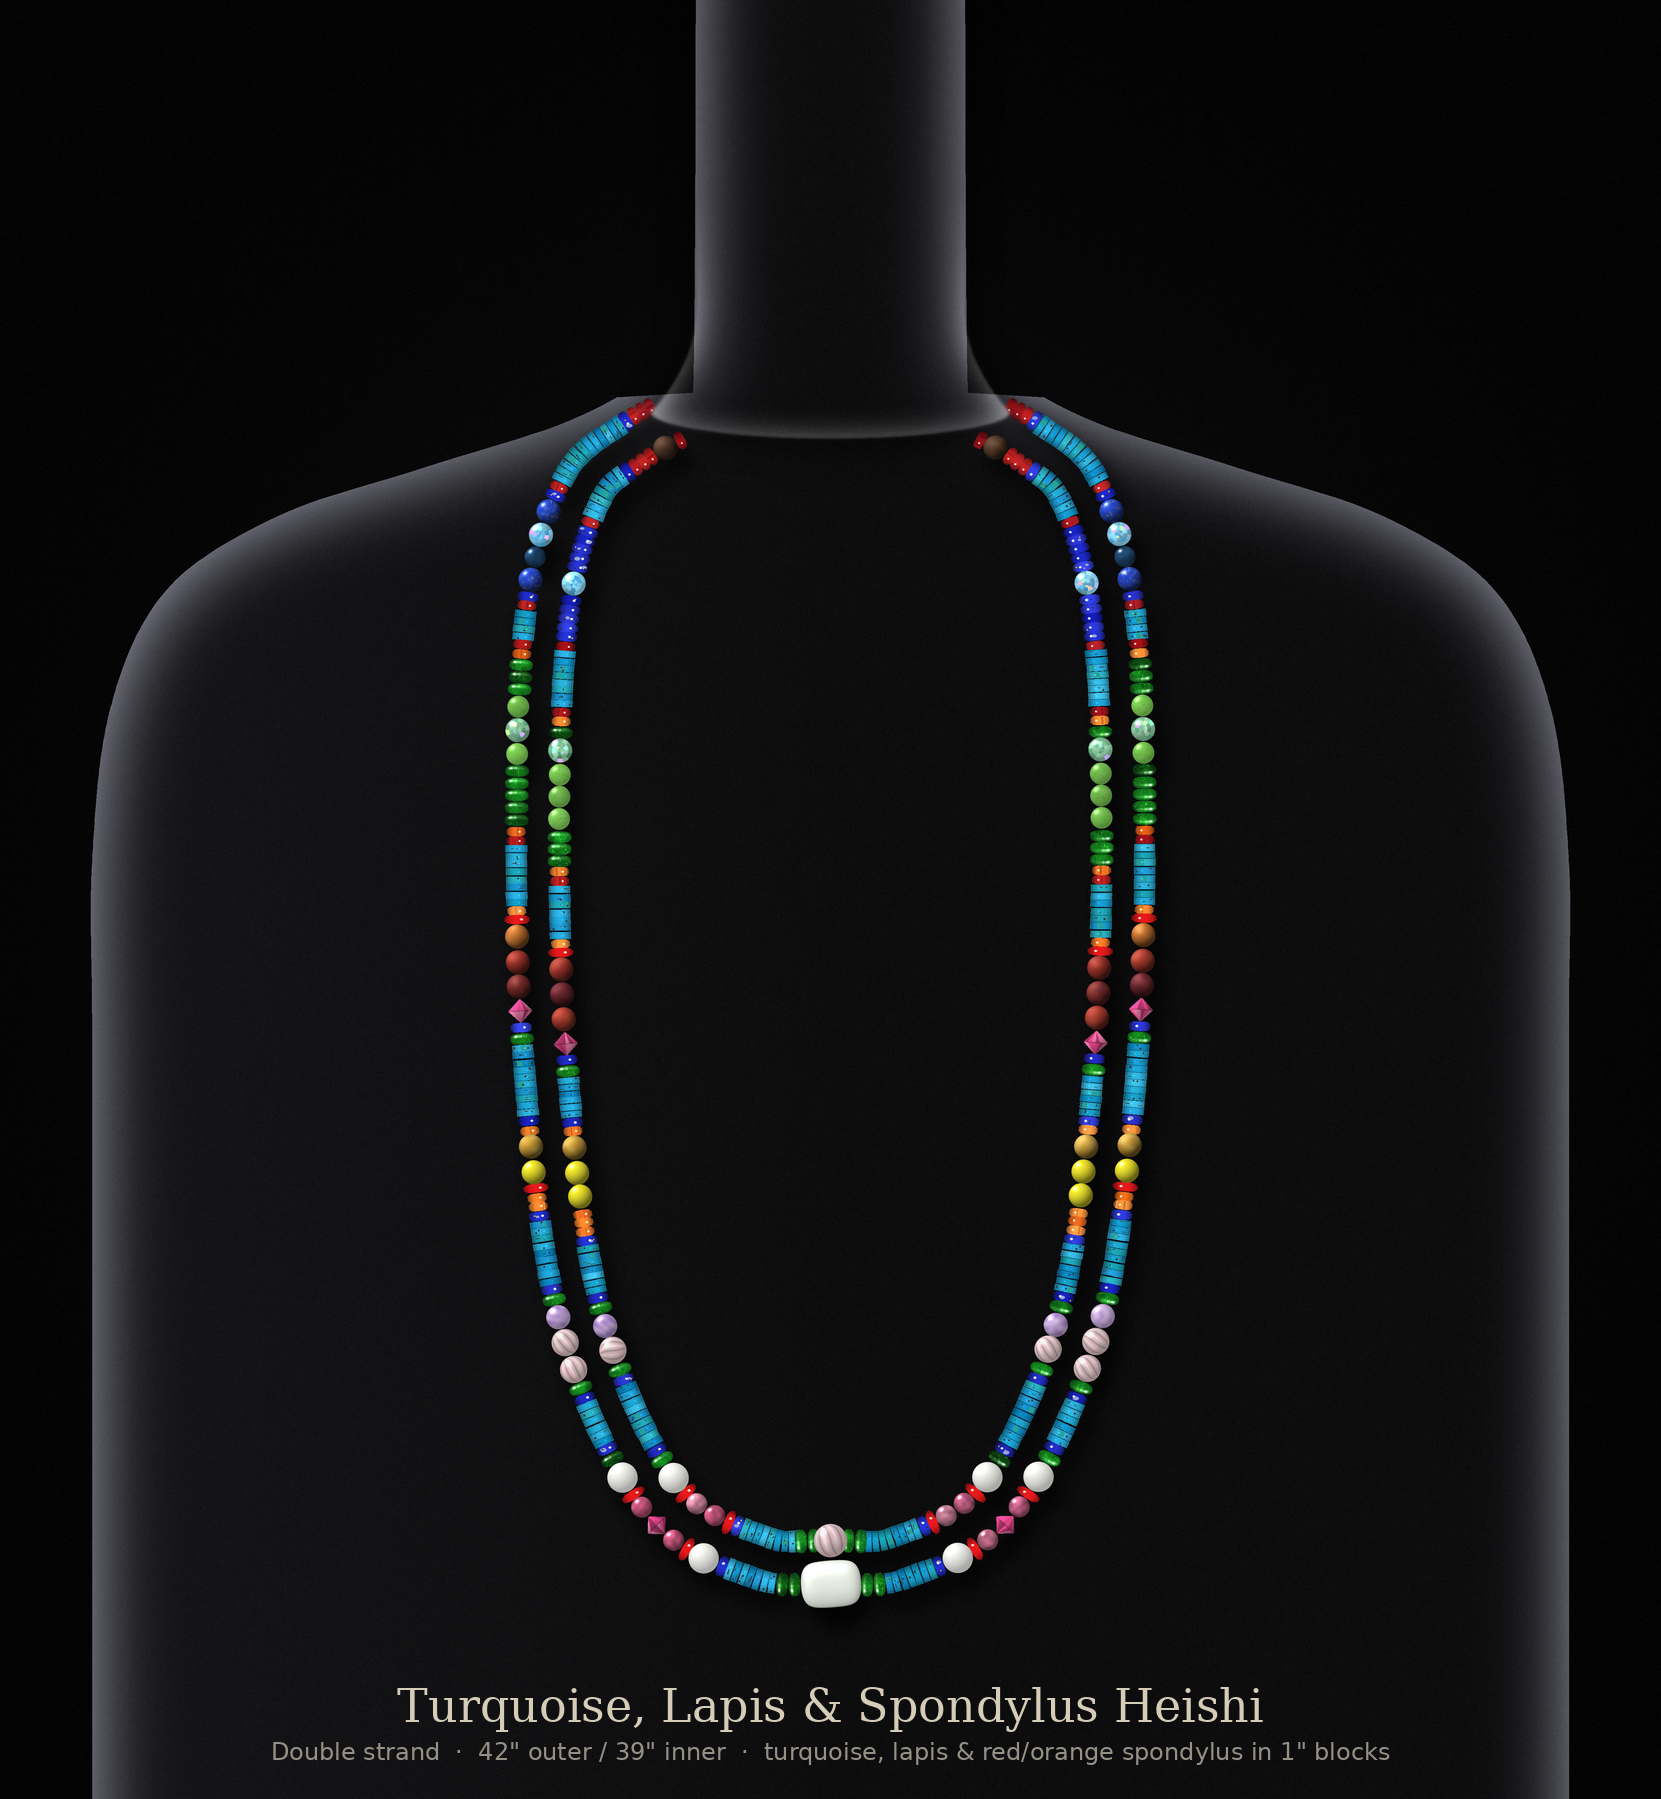
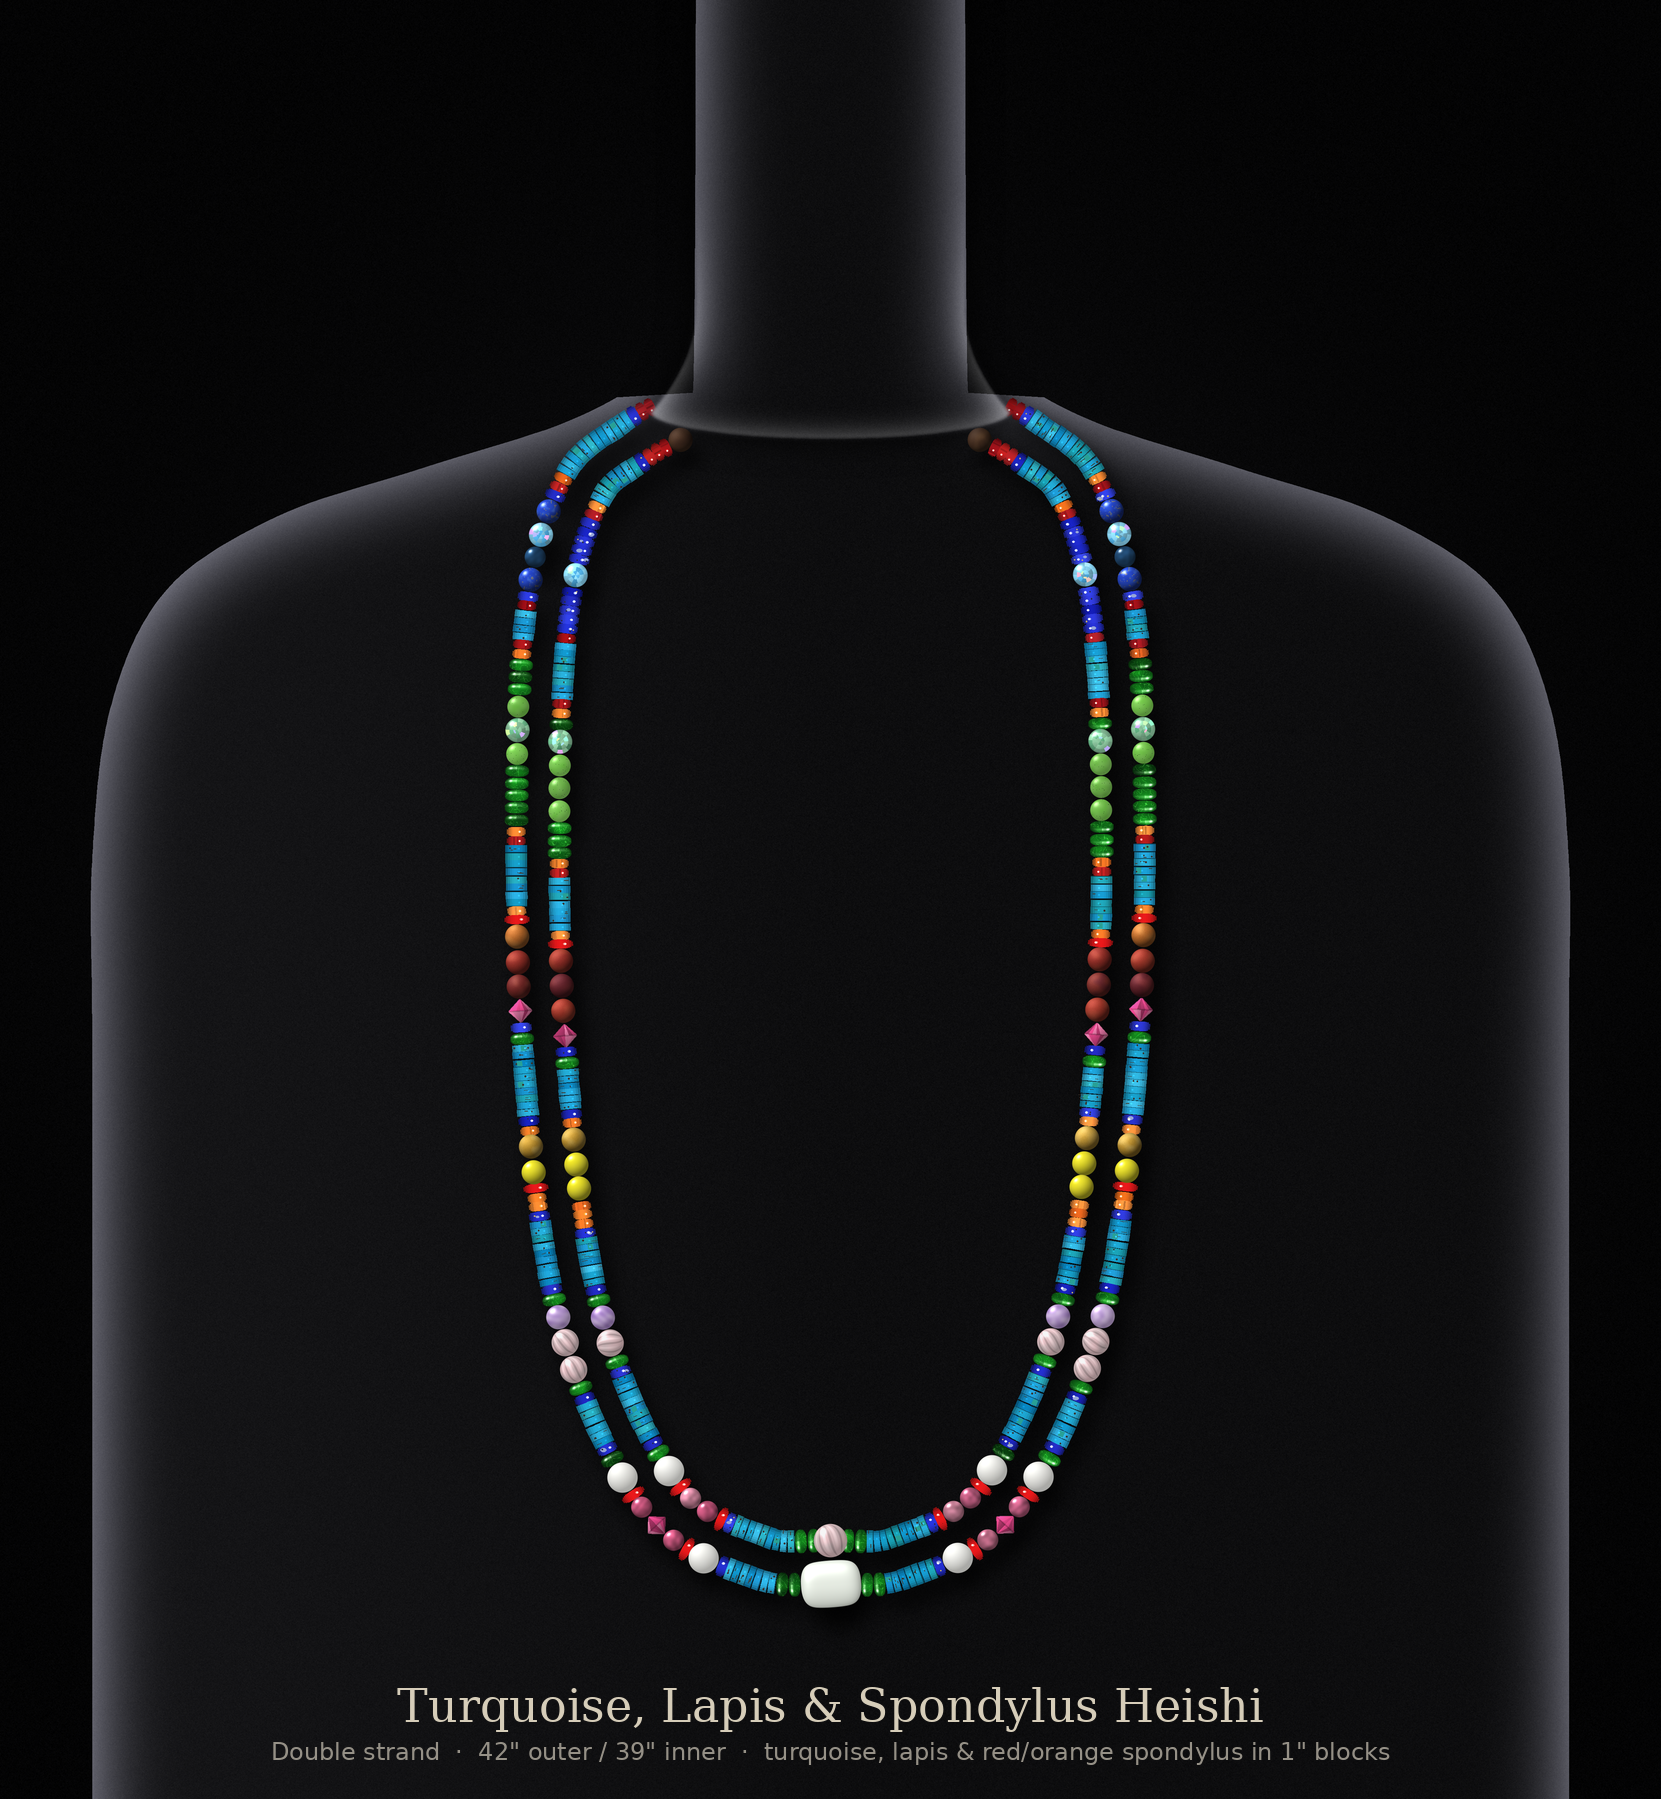
Version 5: orange rondelle above the top red of both blue bands
Claude-Session: https://claude.ai/code/session_014be1vF4Rdf8sv9Si75Gudv

diff --git a/necklace/render_necklace.py b/necklace/render_necklace.py
@@ -1021,6 +1021,7 @@ if V4:
         _bl = list(BANDS[4][0]); assert _bl[0] == _bl[-1] == "lapisH"
         _bl[0] = _bl[-1] = "red"                    # outer blue band: end lapis swapped for red spiny oyster borders
         BANDS[4] = (_bl, ["red"] + list(BANDS[4][1]) + ["red"])   # inner blue band: red spiny oyster added at both ends
+        BANDS[4] = tuple(["orange"] + list(b) for b in BANDS[4])  # orange above the top red, both strands
         _gi = list(BANDS[5][1]); assert _gi[2:4] == ["diop", "diop"]
         _gi[2:4] = ["gglass"]                       # inner green: 8 mm green glass beside the outer one, for two diopside
         _gi[2:4] = ["diop", "gglass"]               # chrome diopside on top of the green glass
@@ -1137,6 +1138,7 @@ if V4:
                 widths[5] -= SZ["diop"]             # diopside under the mookaite band grows it downward...
                 widths[6] += SZ["orange"]           # ...into the room left by the orange removed from the top of the yellow band
                 widths[8] -= SZ["diop"]             # diopside above the white opal: band grows upward, room from the neck
+                widths[3] -= SZ["orange"]           # orange atop the blue band: room from the neck lapis
                 if st == 1:
                     widths[3] -= 2 * SZ["red"]      # inner blue's red ends: band grows upward, room from the neck lapis
                 widths[4] -= 6.0                    # green's orange borders: laid out at the old width, room taken from the neck lapis below
@@ -1211,7 +1213,9 @@ if V4:
                 if st == 1:
                     widths[3] += 2 * SZ["red"]
                     _need += 2 * SZ["red"]
-                for _gi, _fl in ((1, 3.0), (0, 1.0), (2, 3.0)):   # neck lapis first; any shortfall from the next run up
+                widths[3] += SZ["orange"]
+                _need += SZ["orange"]
+                for _gi, _fl in ((1, 3.0), (0, 1.0)) + (((2, 0.0),) if st == 1 else ()) + ((1, 0.0), (0, 0.0), (2, 3.0)):   # neck lapis first; any shortfall from the next run up
                     _take = min(_need, max(0.0, gaps[_gi] - _fl)); gaps[_gi] -= _take; _need -= _take
                 print(f"v5 strand {st} neck gaps after shift", [round(float(x), 1) for x in gaps[:4]], "unplaced", round(_need, 2))
                 # bands above the added beads move up into the lapis behind the neck; visible turquoise runs unchanged
@@ -1219,6 +1223,14 @@ if V4:
             lap = LAP_BUDGET[st]
             for gi, gl in enumerate(gaps):
                 nl = max(1, int(round(gl / 3.0)))
+                if V5 and gl < 1.5:                  # neck run used up: bands touch, no filler bead
+                    g += gl; gl = 0.0
+                    if gi < len(STN):
+                        for k in STN[gi]:
+                            put(g + SZ[k] / 2, k)
+                            V4_USED[k] = V4_USED.get(k, 0) + 2
+                            g += SZ[k]
+                    continue
                 if (lap >= nl and not V5) or (V5 and gi <= (1 if st == 0 else 2)):   # v5: same lapis runs as before
                     for q in range(nl):
                         put(g + gl / nl * (q + 0.5), "lapisH")
